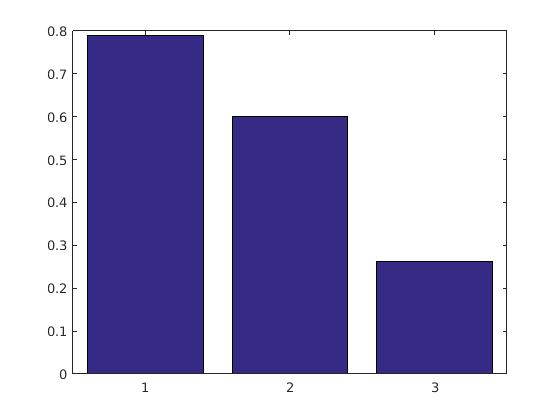
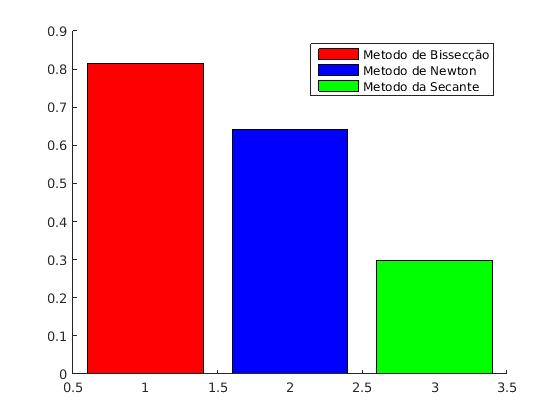
Entrega da Terceira Questao

diff --git a/Segunda-Lista/TerceiraQuestao.m b/Segunda-Lista/TerceiraQuestao.m
@@ -1,7 +1,19 @@
 function acabou = TerceiraQuestao(tol)
-syms x
-expressao = x^2 - 4*x + 3
-[ tempoProcessamento, a,b,c ] = SegundaQuestao( expressao, tol )
-a = ['Metodo de Bissecção' 'Metodo de Newton' 'Metodo da Secante']
-bar( tempoProcessamento )
-acabou = true
+    syms x
+    expressao = x^2 - 4*x + 3
+    [ tempoProcessamento, a,b,c ] = SegundaQuestao( expressao, tol )
+    %legenda = categorical({'Metodo de Bissecção','Metodo de Newton','Metodo da Secante'})
+    %legenda = reordercats( legenda, {'Metodo de Bissecção','Metodo de Newton','Metodo da Secante'} )
+    %X = categorical({'Small','Medium','Large','Extra Large'});
+    %X = reordercats(X,{'Small','Medium','Large','Extra Large'});
+    hold on
+    bar( 1, tempoProcessamento(1), 'r' )
+    bar( 2, tempoProcessamento(2), 'b' )
+    bar( 3, tempoProcessamento(3), 'g' )
+    legend( 'Metodo de Bissecção','Metodo de Newton','Metodo da Secante' )
+    hold off
+    acabou = true
+end
+    %Exemplo Legenda
+    %X = categorical({'Small','Medium','Large','Extra Large'});
+    %X = reordercats(X,{'Small','Medium','Large','Extra Large'});

diff --git a/Segunda-Lista/MetodoDaBiseccao.m b/Segunda-Lista/MetodoDaBiseccao.m
@@ -29,9 +29,9 @@ function raizBisseccao = MetodoDaBiseccao(expressao, a, b, TOL)
             N0
             raizBisseccao = [ raizBisseccao raiz ]
         end
-        %%    if N0 >= 50
-        %       raizBisseccao = double( subs(expressao,x,p) );
-        %    end
+   %    if N0 >= 50
+   %       raizBisseccao = double( subs(expressao,x,p) );
+   %    end
         raizBisseccao
     else
         if abs(Fa) < TOL
